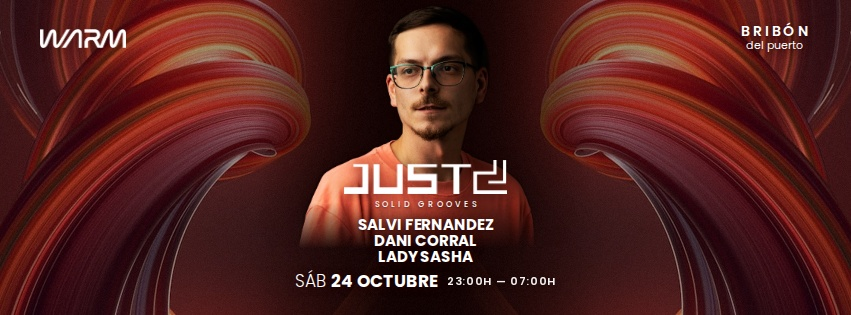
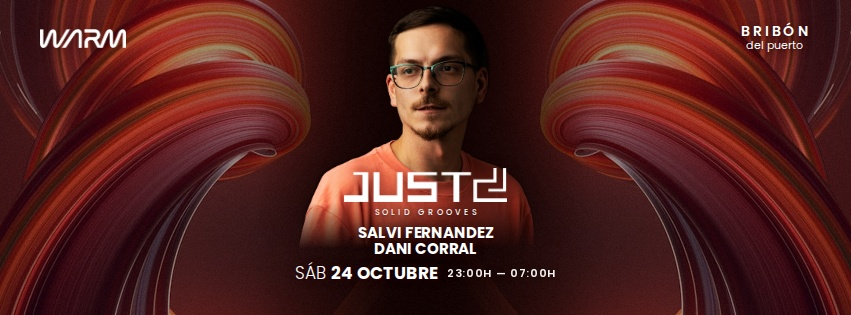
WARM 24.10 — Lady Sasha scoasă de pe toate formatele (feed, 3:4, story, cover 1920, FB 851)
Claude-Session: https://claude.ai/code/session_01PsYJ7xTqRMzxVLnVuQx1Lt

Changed region(s): [[0.3361, 0.5143, 0.6722, 0.9143], [0.5805, 0.5143, 0.611, 0.5429]]

diff --git a/warm_24oct/cover_swirl.html b/warm_24oct/cover_swirl.html
@@ -11,7 +11,7 @@ img.sh{filter:drop-shadow(0 2px 14px rgba(40,5,0,.5))}
 .tr{position:absolute;top:56px;right:90px;text-align:center;line-height:1}
 .tr b{display:block;font-weight:600;font-size:32px;letter-spacing:.2em;padding-left:.2em}
 .tr i{display:block;font-style:normal;font-weight:400;font-size:24px;text-transform:none;margin-top:4px}
-.c{position:absolute;left:0;right:0;top:382px;display:flex;flex-direction:column;align-items:center;text-align:center}
+.c{position:absolute;left:0;right:0;top:404px;display:flex;flex-direction:column;align-items:center;text-align:center}
 .j2{height:84px}
 .label{font-weight:500;font-size:16px;letter-spacing:.38em;padding-left:.38em;margin:10px 0 14px}
 .n{font-weight:700;font-size:44px;line-height:1.06;letter-spacing:-.015em}
@@ -27,7 +27,7 @@ img.sh{filter:drop-shadow(0 2px 14px rgba(40,5,0,.5))}
 <div class="c sh">
  <img class="j2 sh" src="logos/just2_white.png">
  <div class="label">Solid Grooves</div>
- <div class="n">Salvi Fernandez</div><div class="n">Dani Corral</div><div class="n">Lady Sasha</div>
+ <div class="n">Salvi Fernandez</div><div class="n">Dani Corral</div>
  <div class="date"><span>SÁB</span> 24 OCTUBRE</div>
  <div class="l1">23:00H <em>—</em> 07:00H</div>
  <div class="l2">Península de Contradique, 04720 <em>·</em> Aguadulce (Almería) <em>·</em> Info &amp; Reservas 679 743 114</div>

diff --git a/warm_24oct/cover_851.html b/warm_24oct/cover_851.html
@@ -12,7 +12,7 @@ img.sh{filter:drop-shadow(0 1px 7px rgba(40,5,0,.5))}
 .tr b{display:block;font-weight:600;font-size:14px;letter-spacing:.2em;padding-left:.2em}
 .tr i{display:block;font-style:normal;font-weight:400;font-size:11px;text-transform:none;margin-top:2px}
 .tr small{display:block;font-weight:500;font-size:8px;letter-spacing:.14em;margin-top:6px;opacity:.9}
-.c{position:absolute;left:0;right:0;top:160px;display:flex;flex-direction:column;align-items:center;text-align:center}
+.c{position:absolute;left:0;right:0;top:168px;display:flex;flex-direction:column;align-items:center;text-align:center}
 .j2{height:34px}
 .label{font-weight:500;font-size:8px;letter-spacing:.38em;padding-left:.38em;margin:5px 0 6px}
 .n{font-weight:700;font-size:15px;line-height:1.06;letter-spacing:-.01em}
@@ -26,7 +26,7 @@ img.sh{filter:drop-shadow(0 1px 7px rgba(40,5,0,.5))}
 <div class="c sh">
  <img class="j2 sh" src="logos/just2_white.png">
  <div class="label">Solid Grooves</div>
- <div class="n">Salvi Fernandez</div><div class="n">Dani Corral</div><div class="n">Lady Sasha</div>
+ <div class="n">Salvi Fernandez</div><div class="n">Dani Corral</div>
  <div class="date"><span>SÁB</span> 24 OCTUBRE<em>23:00H — 07:00H</em></div>
 </div>
 </body></html>

diff --git a/warm_24oct/poster_swirl_1440.html b/warm_24oct/poster_swirl_1440.html
@@ -16,7 +16,7 @@ body{width:1080px;height:1440px;background:#000 url(bg_swirl_1440.jpg) 0 0/1080p
   -webkit-mask-image:linear-gradient(180deg,#000 0%,#000 43%,rgba(0,0,0,0) 50%);filter:contrast(1.06) saturate(.95)}
 .p>.halo{position:absolute;z-index:1;inset:0;background:radial-gradient(ellipse 44% 36% at 50% 36%,rgba(0,0,0,.9) 40%,rgba(0,0,0,0) 100%)}
 .p>.head{position:absolute;top:110px;left:0;right:0;display:flex;justify-content:center}
-.p>.mid{position:absolute;left:0;right:0;top:742px;transform:translateY(-50%)}
+.p>.mid{position:absolute;left:0;right:0;top:772px;transform:translateY(-50%)}
 .p>.foot{position:absolute;bottom:96px;left:50%;transform:translateX(-50%)}
 .guide{position:absolute;inset:110px 120px;border:1px dashed #0f0;display:none}
 .mono{font-family:'Space Mono';font-size:17px;letter-spacing:.14em;text-transform:uppercase}
@@ -67,7 +67,7 @@ body{width:1080px;height:1440px;background:#000 url(bg_swirl_1440.jpg) 0 0/1080p
 <div class="label">Solid Grooves</div>
 <div class="n">Salvi Fernandez</div>
 <div class="n">Dani Corral</div>
-<div class="n">Lady Sasha</div>
+
 </div></div>
 <div class="foot">
 <div class="fvenue"><b>BRIBÓN</b><i>del puerto</i></div>

diff --git a/warm_24oct/poster_swirl_story.html b/warm_24oct/poster_swirl_story.html
@@ -16,7 +16,7 @@ body{width:1080px;height:1920px;background:#000 url(bg_swirl_story.jpg) 0 0/1080
   -webkit-mask-image:linear-gradient(180deg,#000 0%,#000 43%,rgba(0,0,0,0) 50%);filter:contrast(1.06) saturate(.95)}
 .p>.halo{position:absolute;z-index:1;inset:0;background:radial-gradient(ellipse 44% 36% at 50% 36%,rgba(0,0,0,.9) 40%,rgba(0,0,0,0) 100%)}
 .p>.head{position:absolute;top:110px;left:0;right:0;display:flex;justify-content:center}
-.p>.mid{position:absolute;left:0;right:0;top:742px;transform:translateY(-50%)}
+.p>.mid{position:absolute;left:0;right:0;top:772px;transform:translateY(-50%)}
 .p>.foot{position:absolute;bottom:96px;left:50%;transform:translateX(-50%)}
 .guide{position:absolute;inset:110px 120px;border:1px dashed #0f0;display:none}
 .mono{font-family:'Space Mono';font-size:17px;letter-spacing:.14em;text-transform:uppercase}
@@ -68,7 +68,7 @@ body{width:1080px;height:1920px;background:#000 url(bg_swirl_story.jpg) 0 0/1080
 <div class="label">Solid Grooves</div>
 <div class="n">Salvi Fernandez</div>
 <div class="n">Dani Corral</div>
-<div class="n">Lady Sasha</div>
+
 </div></div>
 <div class="foot">
 <div class="fvenue"><b>BRIBÓN</b><i>del puerto</i></div>

diff --git a/warm_24oct/poster_swirl.html b/warm_24oct/poster_swirl.html
@@ -15,7 +15,7 @@ body{width:1080px;height:1350px;background:#000;overflow:hidden}
   -webkit-mask-image:linear-gradient(180deg,#000 0%,#000 43%,rgba(0,0,0,0) 50%);filter:contrast(1.06) saturate(.95)}
 .p>.halo{position:absolute;z-index:1;inset:0;background:radial-gradient(ellipse 44% 36% at 50% 36%,rgba(0,0,0,.9) 40%,rgba(0,0,0,0) 100%)}
 .p>.head{position:absolute;top:110px;left:0;right:0;display:flex;justify-content:center}
-.p>.mid{position:absolute;left:0;right:0;top:742px;transform:translateY(-50%)}
+.p>.mid{position:absolute;left:0;right:0;top:772px;transform:translateY(-50%)}
 .p>.foot{position:absolute;bottom:96px;left:50%;transform:translateX(-50%)}
 .guide{position:absolute;inset:110px 120px;border:1px dashed #0f0;display:none}
 .mono{font-family:'Space Mono';font-size:17px;letter-spacing:.14em;text-transform:uppercase}
@@ -66,7 +66,7 @@ body{width:1080px;height:1350px;background:#000;overflow:hidden}
 <div class="label">Solid Grooves</div>
 <div class="n">Salvi Fernandez</div>
 <div class="n">Dani Corral</div>
-<div class="n">Lady Sasha</div>
+
 </div></div>
 <div class="foot">
 <div class="fvenue"><b>BRIBÓN</b><i>del puerto</i></div>
